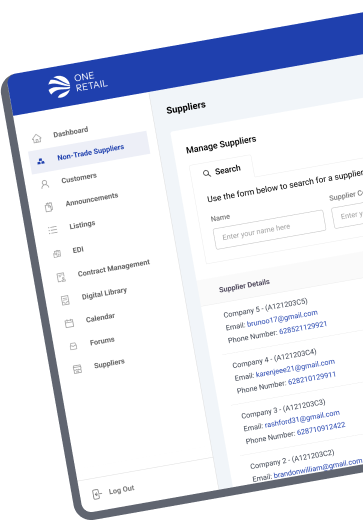
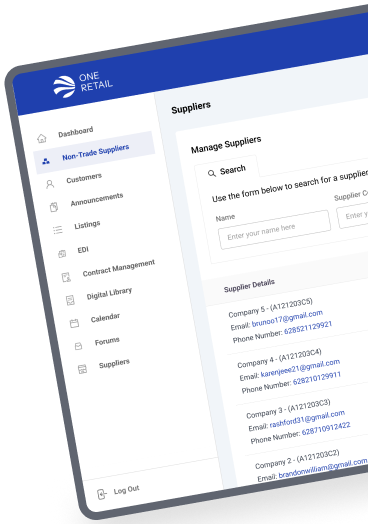
fix tablet

diff --git a/app/products/supplier-management/page.tsx b/app/products/supplier-management/page.tsx
@@ -30,8 +30,8 @@ const SupplierManagementPage = () => {
               transition: { duration: 0.5 },
             }}
           >
-            <div className="grid grid-cols-2 h-full xl:max-h-[510px] gap-x-8 lg:gap-x-[55px]">
-              <div className="col-span-2 lg:col-span-1 max-sm:px-4 sm:py-12 xl:pl-24 sm:pl-10">
+            <div className="grid grid-cols-2 h-full xl:max-h-[510px] gap-x-8 lg:gap-x-[40px] z-10 absolute top-0 left-0 w-full">
+              <div className="col-span-2 lg:col-span-1 max-sm:px-4 sm:py-12 xl:pl-24 lg:pl-14 sm:pl-10 max-sm:pt-5">
                 <motion.div
                   className="xl:max-w-[430px]"
                   initial={{ opacity: 0 }}
@@ -96,12 +96,17 @@ const SupplierManagementPage = () => {
                     x: [100, 0],
                     transition: { duration: 0.5 },
                   }}
-                  className="pl-4 -mb-28 md:rounded-tr-[20px] w-full max-lg:hidden xl:hidden"
+                  className="pl-4 -mb-32 md:rounded-tr-[20px] w-full max-lg:hidden xl:hidden"
                   src="/products/sm/dashboard-lg.png"
                   alt="hero-2"
                 ></motion.img>
               </div>
             </div>
+            <img
+              className="absolute bottom-0 left-0"
+              src="/products/sm/hero-1.svg"
+              alt=""
+            />
           </motion.div>
 
           <div className="xl:px-24 lg:px-12 px-4 sm:mb-[100px] mb-10">
@@ -397,7 +402,7 @@ const SupplierManagementPage = () => {
 
         <section id="ntp">
           <motion.div
-            className="sm:px-24 relative xl:h-[796px] md:h-[630px] max-sm:mt-10 h-[570px] lg:mb-[103px] xl:mb-[140px] md:mb-[140px] mb-210bg-[#F7F9FF]"
+            className="sm:px-24 relative xl:h-[772px] lg:h-[610px] md:h-[630px] max-sm:mt-10 h-[495px] lg:mb-[103px] xl:mb-[140px] md:mb-[140px] mb-10 bg-[#F7F9FF]"
             initial={{ opacity: 0 }}
             whileInView={{
               opacity: 1,
@@ -430,12 +435,12 @@ const SupplierManagementPage = () => {
               >
                 <div className="relative max-sm:mx-2">
                   <img
-                    className="absolute object-cover top-0 left-0 max-sm:hidden"
+                    className="absolute object-cover top-0 left-0 max-xl:hidden"
                     src="/products/sm/ntp-1.svg"
                     alt="dashboard"
                   />
                   <img
-                    className="absolute w-full object-cover top-0 left-0 sm:hidden"
+                    className="absolute w-full object-cover top-0 lg:h-[433px] xl:h-auto left-0 xl:hidden"
                     src="/products/sm/ntp-lg.svg"
                     alt="dashboard"
                   />
